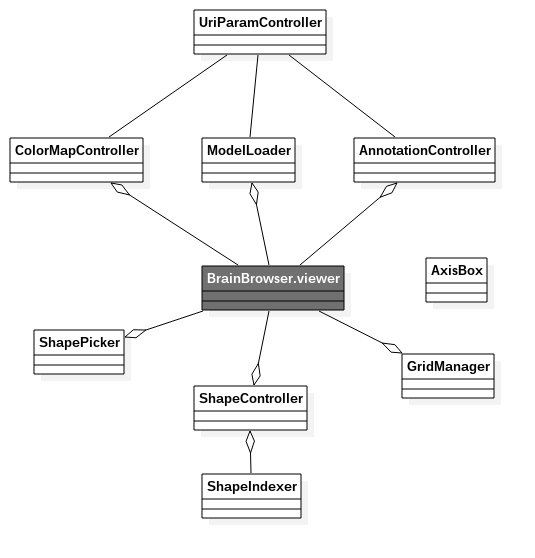
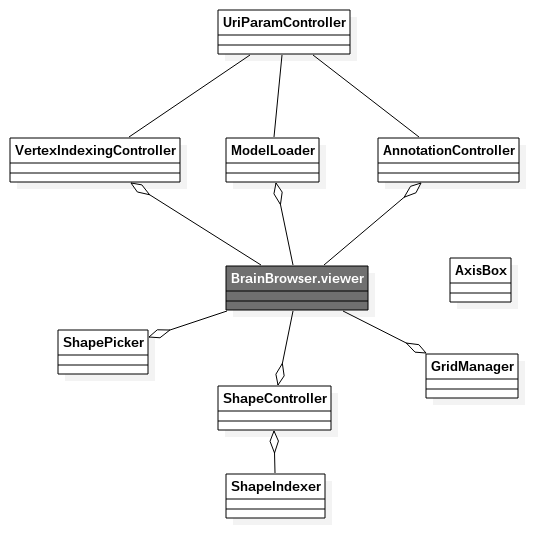
doc: updated the doc

diff --git a/bigbrainbrowser2/readme.md b/bigbrainbrowser2/readme.md
@@ -1,7 +1,7 @@
 # BrainBrowser Surface UI
 
 ## Background history
-Historically, **BrainBrowser** (and in particular the *Surface* module) was thought as a library, independant of all kind of UI element. This allowed a high level of abstraction and to develop the core without being too much concerned about the ergonomics. When the core eventually reached a decent stage of development and became richer in term of features, few web projects were build around the core to show the community what BrainBrowser was capable of. So far, this projects were distributed along with the core source, in the `examples` subfolder. In parallel, other larger and more mature projects started to use the core of BrainBrowser, not directly as a dependency, but though its Javascript/Ajax API. [Loris](http://mcin-cnim.ca/neuroimagingtechnologies/loris/) and [Cbrain](http://mcin-cnim.ca/neuroimagingtechnologies/cbrain/) are good examples of such use.
+Historically, **BrainBrowser** (and in particular the *Surface* module) was thought as a library, independant of all kind of UI element. This allowed a high level of abstraction and to develop the core without being too much concerned about the ergonomics. When the core eventually reached a decent stage of development and became richer in term of features, some web projects were built around the core to show the community what BrainBrowser was capable of. So far, these projects were distributed along with the core source, in the `examples` subfolder. In parallel, other larger and more mature projects have started to use the core of BrainBrowser, not directly as a dependency, but through its Javascript/Ajax API. [Loris](http://mcin-cnim.ca/neuroimagingtechnologies/loris/) and [Cbrain](http://mcin-cnim.ca/neuroimagingtechnologies/cbrain/) are notable examples of such use.
 
 ## Gathering features
 Having several independant projects that all use the Suface module of BrainBrowser for specialized needs is a great thing. Though, after some brainstorming sessions, the development team decided to gather the main features (if not all) and to make them available under a unique project: **BrainBrowser Surface UI**.
@@ -10,42 +10,125 @@ Having several independant projects that all use the Suface module of BrainBrows
 This project is the result of an important refactoring, thus, the users have to keep in mind a few things:
 - It was a necessity to modify the core code and this is not backward compatible.
 - For external projects that are using the API, this should still be working fine (to be tested more...)
-- The core code is still independant from any kind of UI. We still stick to the phylosophy of strictly splitting UI and core.
+- The core code is still independant from any kind of UI. We still stick to the philosophy of strictly splitting UI and core.
 
 ## Possible evolution
-**BrainBrowser Surface UI** implements the UI but not only. Few parts of it could actually be tranfered to the core since they not UI opiniated. This is mainly the case for features like annotation management, grid and axes creation or even tuning some settings using URL arguments. This transfer work will be done progressively.
-
-
-## features
-TODO
+**BrainBrowser Surface UI** implements the UI but not only. Few parts of it could actually be tranfered to the core since they are not UI opiniated. This is mainly the case for features like annotation management, grid and axes creation or even tuning some settings using URL arguments. This transfer work will be done progressively. Putting it in a MVC architecture, the already-existing core would be the *Model*, while **BrainBrowser Surface UI** would be the *View* and few *Controllers*.
 
 
 ## UI software architecture
-Here is a an attempt of simplified class diagram to show the different classes and their relations:  
+Here is a an attempt of a simplified class diagram to show the classes and their relations:  
 
 ![](uml/class.png)
 
 Keep in mind that JS that do properly allow to develop with *classes*, here we actually use objects and *prototypes*.
 
 ### The objects
-The following is the list of the objects that compose **BrainBrowser Surface UI** and their basic functionnalities.
+The following is the list of the objects that compose **BrainBrowser Surface UI** and their basic functionalities.
 
-#### Jargon
-**model**: a bunch of 3D shapes stored in the same file.  
-**shape**: a closed 3D volume with a surface made out of a large amount of triangles. A model can contain one or more shapes. A shape can also be of a specific color.  
+First, let's be clear on the *jargon*:
+
+- **model**: a bunch of 3D shapes stored in the same file.  
+
+- **shape**: a closed 3D volume with a surface made out of a large amount of vertice and triangles. A model can contain one or more shapes. A shape can also be of a specific color.
+
+- **vertex** : *(plur: vertice)* a vertex is a point in spatial coordinate system, usually at the crossing of two lines or a plane and a line. In the context of Surface Viewer, they have 3D coordinates and are rather used the other way around: to draw a triangle, we need three vertices that are not aligned.
+
+- **Attribute by composition**: in an object oriented paradigm, an attribute *A* is said *by composition* when it is referenced within an object *B*. If *B* is destroyed, *A* is destroyed too. *A* can be part of the composition of only one object but could possibly be aggregated to others.  
+
+- **Attribute by aggregation**: in an object oriented paradigm, an attribute *A* is said *by aggragation* when it is instanciated outsite an object *B* but *B* uses a reference to *A* as one of its attributes. If *B* is destroyed, *A* is not (except if explicitly stated). *A* can be aggregated to one or more objects.  
+
+- **Callback**: a function that is called in response to an event. Other than the event throwing/listening context, a function that is given as an argument of another function can also be called a callback since it can be called *conditionnally*.
 
 
 #### ShapeIndexer
+Does NOT need to know the `viewer`.  
 When loading a model, all the shapes from this model have to:
 - be kept in memory
 - be listed in a easy-to-access structure
 - get a unique ID
-- know its position within the list (for UI)
+- know its overall position within the entire list of shapes (across all models)
 
-The fileIndexer stores these pieces of information using two structures:
-- an array: `shapeIndex`, storing all the data
-- a dictionnary (map): `reverseDictionnary`, where the key is the unique identifier *shapeNameOverall* and the value is the position of the shape info within `shapeIndex`.
+A ShapeIndexer instance is an attribute of ShapeController by composition.
 
-Using `reverseDictionnary` guaranties a constant access time to a shape info for when we know only its unique identifier (ie. shape picking). Otherwhise, we would have to check the entire `shapeIndex` looking for the right identifier. On the other
+#### ShapeController
+Does need to know the `viewer`.  
+Initialize some callbacks.  
+An instance of ShapeController manages the side panel widgets related to the model and their shapes. When a model is loaded, a new sub panel is created. In this panel, some "toggle visibility" buttons a complete widget is added for each shape, allowing the user to tune the opacity of each related shape. ShapeController also deals with the shape *search engine* at the top of the right-side panel.
 
-Both structure are kept up to date when adding a shape
+When the user shift+click on a 3D shape, the shapeController object reacts to that and makes the associated shape-widget visible in the window and blinking.
+
+ShapeController load the folowing Handlebars templates:
+- opacityWidget
+- shapeTab
+- tabName
+
+#### ShapePicker
+Does need to know the `viewer`.  
+Using the pick() method from BrainBrowser Viewer was not enough and we needed something that was easily customizable with a callback. ShapePicker helps the user defining a behavior for when he is clicking on a shape, potentially while pressing shift, ctrl/cmd or both. No behavior is directly implemented in ShapePicker.js, look into initialize.js for that.
+
+#### ModelLoader
+Does need to know the `viewer`.  
+While most of the file reading/parsing work is done in BrainBrowser's core, the bridge between a HTML file input DOM element and the core is necessary. ModelLoader deals with the file extensions and wrap the core methods in order to make them simpler to access.
+
+#### VertexIndexingController
+Does need to know the `viewer`.  
+Initialize some callbacks.  
+Vertex indexing is a powerful features that allows mainly two things:
+- Applying a color map to a shape
+- Giving names to shape regions
+
+In both case, each vertex is associated with a value (index), potentially shared by other vertice. When loading a color map, a color is associated with a specific index, when loading a label list, a name is associated with a index.
+
+#### AnnotationController
+Does need to know the `viewer`.  
+Initialize some callbacks.  
+Allow the user to manually add point annotations by clicking on a shape. The annotations are sphere shaped colorful objects that lays at the surface of a model's shape. The data structure allows not only single points annotations but also polylines and polygons but this later feature are not yet available from the UI.
+Other than a list of 3D coordinates, an annotation comes with a name, a description and a color.
+
+Thanks to AnnotationController, the user can load and save annotation from/to JSON files.
+
+
+#### GridManager
+Does need to know the `viewer`.  
+Initialize some callbacks.  
+A grid manager is an instance of the GridManager class. It creates a grid that surrounds all the visible shapes, over the three orthogonal planes. A shape is considered "visible" as long as it opacity is higher than an *opacityThreshold*  (see `setOpacityThreshold`).
+No matter where the center of rotation is (since it can be moved), the grid will adapt its own size to be centered on the center of rotation and to cover all the visible objects.  
+The grid step is also adjustable thanks to a slider which callback is managed internally to GridManager (see `initCallbacks`).
+
+
+#### UriParamController
+Does need to know the `viewer`.  
+In the context of embeding **BrainBrowser Surface UI** in a webpage using *iframes*, it is convenient to give some arguments in the URL. Among others, the instance of UriParamController can load models, annotations files, hide the UI, autorotate, etc.  
+For a complete list of features and how to use them, read the header of UriParamController.js .
+
+
+#### AxisBox
+Does NOT need `viewer` as attribute.  
+The axis box is a lightweight independtant THREEjs context that shows the three orthogonal axes with different colors. In the context of **BrainBrowser Surface UI**, it is used to show the orientation/rotation of the models.  
+To build an instance of AxisBox, only a div id is needed, then, its orientation is modified using `applyQuaternion`. Here, we use this later method in a callback, every time the model is dragged.
+
+AxisBox can be used in an independant project since it does not rely on BrainBrowser dependencies.
+
+
+### Other files
+In addition to classes, **BrainBrowser Surface UI** is composed of file that are not directly involved in an object oriented design.
+
+#### core.js
+Mostly contains the instantiations of previously described classes. It also contains the `start` calback for BrainBrowser Surface Viewer and the callback to the `displaymodel` event.
+
+#### initialize.js
+Instantiate few objects, preload the Handlebars templates and, most importantly, setup two kind of callbacks:
+- the *UI* callbacks `defineUiCallbacks`: actions triggered when the user interacts with widgets.
+- the *event* callbacks `definesEventCallbacks`: response to specific events from shape picker or visibility threshold passing.
+
+
+### Events
+As we previously described, some objects declare their callbacks within their own method, while some others declare their callbacks externally. Why such choice?
+
+The callbacks declared internally are attached to specific widget and work only with *this* and (possibly) the `viewer`, which in this case would be an attribute of *this*.
+
+On the other hand, callbacks declared externally (initialize.js) follow at least one of this rule:
+- they don't use any custom made objects and only play with the DOM with JQuery
+- they only use the `viewer` and no other custom objects
+- they need several custom objects that have no point being attributes of each other.
